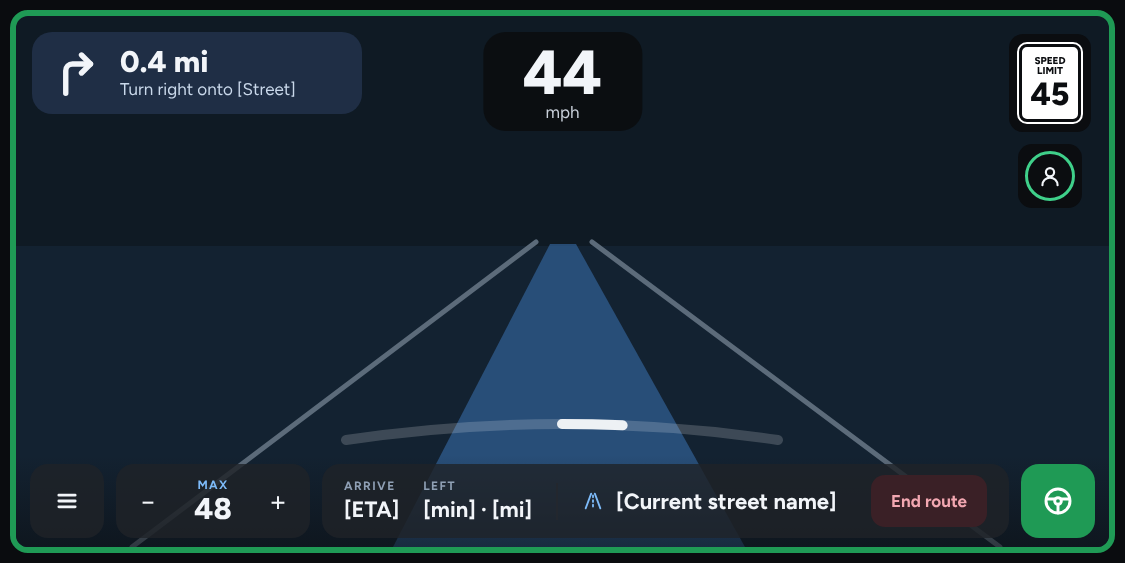
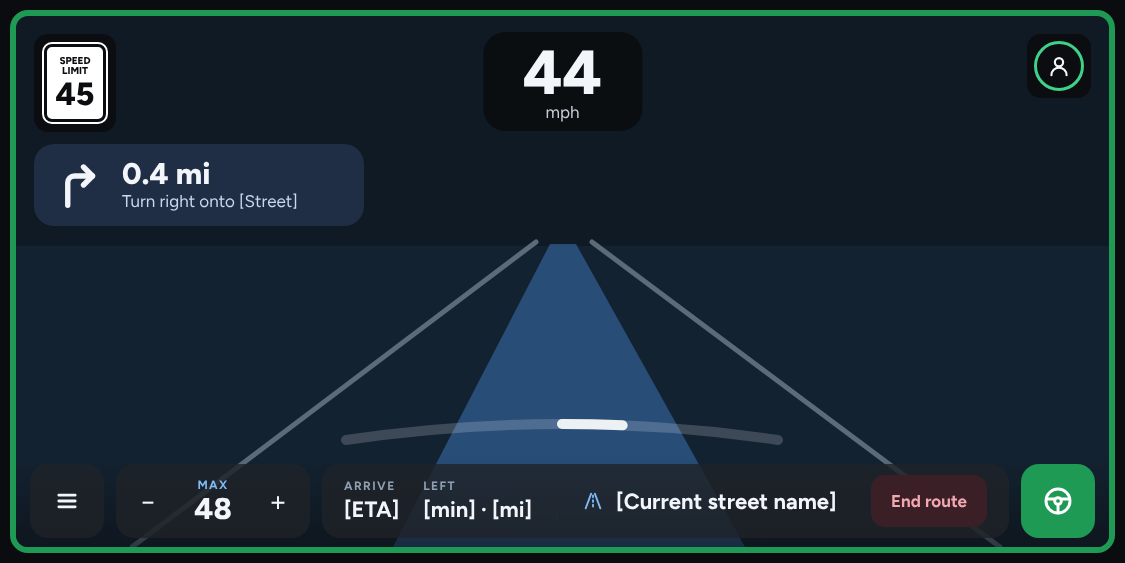
Essentials: speed limit sign stays top left, turn card below it
While navigating, the sign no longer moves to the top right: the turn card
pops up below it instead, and the driver monitor tile keeps the top right
corner. Navigation mock updated.

Claude-Session: https://claude.ai/code/session_01R4pPc2hcx88Dbjjec1p8WC

Changed region(s): [[0.0311, 0.0302, 0.3422, 0.4227], [0.9022, 0.0604, 0.9644, 0.2416], [0.9022, 0.2718, 0.9644, 0.3623]]

diff --git a/selfdrive/ui/tandem/design/onroadnav.html b/selfdrive/ui/tandem/design/onroadnav.html
@@ -24,7 +24,7 @@ a{color:#7DBBF9}a:hover{color:#A9D3FB}
       <path d="M330 424 Q546 392 762 424" stroke="#FFFFFF" stroke-opacity="0.18" stroke-width="10" fill="none" stroke-linecap="round"></path>
       <path d="M330 424 Q546 392 762 424" pathLength="100" stroke="#FFFFFF" stroke-opacity="0.9" stroke-width="10" fill="none" stroke-linecap="round" stroke-dasharray="14 200" stroke-dashoffset="-50"></path>
     </svg>
-    <div style="position: absolute; left: 16px; top: 16px; width: 330px; background: #1F2E45; border-radius: 20px; padding: 14px 18px; display: flex; align-items: center; gap: 16px; box-sizing: border-box;">
+    <div style="position: absolute; left: 18px; top: 128px; width: 330px; background: #1F2E45; border-radius: 20px; padding: 14px 18px; display: flex; align-items: center; gap: 16px; box-sizing: border-box;">
       <svg width="54" height="54" viewBox="0 0 24 24" fill="none" stroke="#F2F5F9" stroke-width="2.4" stroke-linecap="round" stroke-linejoin="round" aria-hidden="true"><path d="M7 21V11a3 3 0 0 1 3-3h8"></path><path d="M14 4l4 4-4 4"></path></svg>
       <div style="display: flex; flex-direction: column; gap: 2px; min-width: 0;">
         <span style="font-size: 30px; font-weight: 800; line-height: 1;">0.4 mi</span>
@@ -35,14 +35,14 @@ a{color:#7DBBF9}a:hover{color:#A9D3FB}
       <span style="font-size: 62px; font-weight: 800;">44</span>
       <span style="font-size: 17px; color: #C9D0DA;">mph</span>
     </div>
-    <div style="position: absolute; right: 18px; top: 18px; width: 82px; height: 98px; border-radius: 14px; background: #0B0D10; display: flex; align-items: center; justify-content: center;">
+    <div style="position: absolute; left: 18px; top: 18px; width: 82px; height: 98px; border-radius: 14px; background: #0B0D10; display: flex; align-items: center; justify-content: center;">
       <div style="width: 62px; height: 78px; box-sizing: border-box; border-radius: 8px; background: #FFFFFF; border: 3px solid #0B0D10; outline: 2px solid #FFFFFF; display: flex; flex-direction: column; align-items: center; justify-content: center; color: #0B0D10; line-height: 1;">
         <span style="font-size: 10px; font-weight: 800;">SPEED</span>
         <span style="font-size: 10px; font-weight: 800;">LIMIT</span>
         <span style="font-size: 32px; font-weight: 800; margin-top: 2px;">45</span>
       </div>
     </div>
-    <div aria-label="Driver monitoring: attentive" style="position: absolute; right: 27px; top: 128px; width: 64px; height: 64px; border-radius: 14px; background: #0B0D10; display: flex; align-items: center; justify-content: center;">
+    <div aria-label="Driver monitoring: attentive" style="position: absolute; right: 18px; top: 18px; width: 64px; height: 64px; border-radius: 14px; background: #0B0D10; display: flex; align-items: center; justify-content: center;">
       <div style="width: 50px; height: 50px; box-sizing: border-box; border-radius: 50%; border: 3px solid #3FD08A; display: flex; align-items: center; justify-content: center;">
         <svg width="26" height="26" viewBox="0 0 24 24" fill="none" stroke="#F2F5F9" stroke-width="2" stroke-linecap="round" stroke-linejoin="round" aria-hidden="true"><circle cx="12" cy="8.5" r="3.8"></circle><path d="M5 20.5a7 7 0 0 1 14 0"></path></svg>
       </div>

diff --git a/selfdrive/ui/tandem/design/confirmlimit.html b/selfdrive/ui/tandem/design/confirmlimit.html
@@ -47,7 +47,7 @@ a{color:#7DBBF9}a:hover{color:#A9D3FB}
       </div>
       <div style="height: 4px; border-radius: 2px; background: #2A2F36;"><div style="width: 60%; height: 4px; border-radius: 2px; background: #5AAAF8;"></div></div>
     </div>
-    <div aria-label="Driver monitoring: attentive" style="position: absolute; right: 27px; top: 18px; width: 64px; height: 64px; border-radius: 14px; background: #0B0D10; display: flex; align-items: center; justify-content: center;">
+    <div aria-label="Driver monitoring: attentive" style="position: absolute; right: 18px; top: 18px; width: 64px; height: 64px; border-radius: 14px; background: #0B0D10; display: flex; align-items: center; justify-content: center;">
       <div style="width: 50px; height: 50px; box-sizing: border-box; border-radius: 50%; border: 3px solid #3FD08A; display: flex; align-items: center; justify-content: center;">
         <svg width="26" height="26" viewBox="0 0 24 24" fill="none" stroke="#F2F5F9" stroke-width="2" stroke-linecap="round" stroke-linejoin="round" aria-hidden="true"><circle cx="12" cy="8.5" r="3.8"></circle><path d="M5 20.5a7 7 0 0 1 14 0"></path></svg>
       </div>

diff --git a/selfdrive/ui/tandem/design/onroad.html b/selfdrive/ui/tandem/design/onroad.html
@@ -32,7 +32,7 @@ a{color:#7DBBF9}a:hover{color:#A9D3FB}
         <span style="font-size: 32px; font-weight: 800; margin-top: 2px;">60</span>
       </div>
     </div>
-    <div aria-label="Driver monitoring: attentive" style="position: absolute; right: 27px; top: 18px; width: 64px; height: 64px; border-radius: 14px; background: #0B0D10; display: flex; align-items: center; justify-content: center;">
+    <div aria-label="Driver monitoring: attentive" style="position: absolute; right: 18px; top: 18px; width: 64px; height: 64px; border-radius: 14px; background: #0B0D10; display: flex; align-items: center; justify-content: center;">
       <div style="width: 50px; height: 50px; box-sizing: border-box; border-radius: 50%; border: 3px solid #3FD08A; display: flex; align-items: center; justify-content: center;">
         <svg width="26" height="26" viewBox="0 0 24 24" fill="none" stroke="#F2F5F9" stroke-width="2" stroke-linecap="round" stroke-linejoin="round" aria-hidden="true"><circle cx="12" cy="8.5" r="3.8"></circle><path d="M5 20.5a7 7 0 0 1 14 0"></path></svg>
       </div>

diff --git a/selfdrive/ui/tandem/onroad/view.py b/selfdrive/ui/tandem/onroad/view.py
@@ -14,6 +14,7 @@ Everything else, from the camera and path to alerts, is upstream's.
 from __future__ import annotations
 
 import datetime
+from collections.abc import Callable
 import time
 
 import pyray as rl
@@ -29,7 +30,7 @@ from openpilot.selfdrive.ui.tandem import tokens as T
 from openpilot.selfdrive.ui.tandem.onroad.layers import (AT_LIMIT, BAR_ZONE, LIMIT_BORDER_COLOR, LIMIT_LANE_COLOR, ArcState, BarState,
                                                          Headroom, HeadroomArc, HelpSteer, LimitCard, LimitOffer, OnroadBar, StatusChip,
                                                          dm_tile, draw_driver_monitor, draw_speed, draw_speed_limit,
-                                                         draw_turn_card, sign_tile)
+                                                         draw_turn_card, sign_tile, TURN_BELOW_SIGN, TURN_CARD_TOP)
 from openpilot.selfdrive.ui.tandem.onroad.status import ChipPicker, snapshot
 from openpilot.selfdrive.ui.tandem.onroad.limits import LimitOfferState
 
@@ -39,10 +40,12 @@ V_CRUISE_UNSET = 255
 
 
 class EssentialsTurnCard(NavigationCardRenderer):
-  """StarPilot's turn card, keeping its route data, drawn as the mock's card top left. Taps do nothing: End route is in the bar."""
+  """StarPilot's turn card, keeping its route data, drawn as the mock's card top left, below the speed limit sign when
+  there is one. Taps do nothing: End route is in the bar."""
 
-  def __init__(self):
+  def __init__(self, below_sign: Callable[[], bool]):
     super().__init__()
+    self._below_sign = below_sign
     self.box: rl.Rectangle | None = None   # where it was drawn this frame, if it was
 
   def _render(self, rect: rl.Rectangle) -> None:
@@ -50,7 +53,8 @@ class EssentialsTurnCard(NavigationCardRenderer):
     if not self._valid:
       return
     text = " ".join(t for t in (self._primary_text, self._secondary_text) if t)
-    self.box = draw_turn_card(rect, self._distance, text, self._maneuver_type, self._modifier)
+    self.box = draw_turn_card(rect, self._distance, text, self._maneuver_type, self._modifier,
+                              TURN_BELOW_SIGN if self._below_sign() else TURN_CARD_TOP)
 
 
 class _NoFavorites:
@@ -108,14 +112,13 @@ class EssentialsOnroadView(StarPilotOnroadView):
                             lambda: (self._turn_card.box.y + self._turn_card.box.height - self._content_rect.y + T.px(12))
                             if self._turn_card.box is not None else T.px(16))
     # StarPilot's HUD keeps deciding when the speed and turn card show; they're drawn in the Essentials style.
-    self._turn_card = EssentialsTurnCard()
+    self._turn_card = EssentialsTurnCard(lambda: self._posted_limit() is not None)
     self._hud_renderer._navigation_card = self._turn_card
     self._hud_renderer._draw_current_speed = self._draw_current_speed
     self._favorite_radial_menu = _NoFavorites()
     self._pip_sidecam.set_visible(False)   # the side-camera bubble: a Galaxy developer feature, and it would cover the bar
     self._stopped_timer_widget = _NoStoppedTimer()
     self._layers_visible = False
-    self._speed_limit_shown = False
     self._nav_sm = None
 
   # Upstream pieces replaced here
@@ -132,17 +135,19 @@ class EssentialsOnroadView(StarPilotOnroadView):
 
   def _render_speed_card(self):
     """The posted limit StarPilot's speed card would show, as the mock's sign; hidden while the new-limit card asks."""
-    widget = self._unified_speed_widget
-    self._speed_limit_shown = False
     if self._full_alert_showing():
-      widget.collapse_sources()
+      self._unified_speed_widget.collapse_sources()
       return
-    widget._refresh_snapshot()
+    limit = self._posted_limit()
+    if limit is not None:
+      draw_speed_limit(sign_tile(self._content_rect), limit, ui_state.ui_params.get_bool("UseVienna"))
+
+  def _posted_limit(self) -> str | None:
+    """The limit for the sign, or None when it's hidden: no limit known, or the new-limit card is asking."""
+    widget = self._unified_speed_widget
+    widget._refresh_snapshot()   # cached per frame
     limit = widget._presentation.posted_speed_text
-    if limit in ("", "–") or self._offer() is not None:
-      return
-    self._speed_limit_shown = True
-    draw_speed_limit(sign_tile(self._content_rect, self._turn_card.box is not None), limit, ui_state.ui_params.get_bool("UseVienna"))
+    return None if limit in ("", "–") or self._offer() is not None else limit
 
   def _render_driver_monitor(self) -> None:
     """Upstream's driver state (its fades already hide it for alerts, stale data and the hide toggle), as our tile."""
@@ -151,8 +156,7 @@ class EssentialsOnroadView(StarPilotOnroadView):
     attentive = dm._color_fade_filter.update(0.0 if dm._awareness_unfull else 1.0)
     if not (ui_state.started and self._draw_hud_controls):
       return
-    below_sign = self._turn_card.box is not None and self._speed_limit_shown
-    draw_driver_monitor(dm_tile(self._content_rect, below_sign), dm._fade_filter.x, attentive, dm.is_active)
+    draw_driver_monitor(dm_tile(self._content_rect), dm._fade_filter.x, attentive, dm.is_active)
 
   def _render_road_name(self):
     pass

diff --git a/selfdrive/ui/tandem/onroad/layers.py b/selfdrive/ui/tandem/onroad/layers.py
@@ -376,11 +376,9 @@ def draw_speed(rect: rl.Rectangle, speed: float, unit: str, offset_y: float = 0.
       draw_signal(rl.Rectangle(x, pill.y, SIGNAL_SIZE[0], pill.height), side, now)
 
 
-def sign_tile(rect: rl.Rectangle, right: bool) -> rl.Rectangle:
-  """Where the speed limit sign sits: top left, or top right while the turn card has the top left."""
-  w, h = SIGN_TILE
-  x = rect.x + rect.width - SIGN_MARGIN - w if right else rect.x + SIGN_MARGIN
-  return rl.Rectangle(x, rect.y + SIGN_MARGIN, w, h)
+def sign_tile(rect: rl.Rectangle) -> rl.Rectangle:
+  """Where the speed limit sign sits: top left."""
+  return rl.Rectangle(rect.x + SIGN_MARGIN, rect.y + SIGN_MARGIN, *SIGN_TILE)
 
 
 def draw_speed_limit(tile: rl.Rectangle, limit: str, vienna: bool) -> None:
@@ -404,14 +402,11 @@ def draw_speed_limit(tile: rl.Rectangle, limit: str, vienna: bool) -> None:
 
 DM_TILE = T.px(64)
 DM_RING = (T.px(50), T.px(3))     # diameter and width
-DM_GAP = T.px(12)                 # below the speed limit sign when they share the top right
 
 
-def dm_tile(rect: rl.Rectangle, below_sign: bool) -> rl.Rectangle:
-  """The driver monitor's place: top right, centered on the sign's column, under the sign when the sign is there too."""
-  x = rect.x + rect.width - SIGN_MARGIN - (SIGN_TILE[0] + DM_TILE) / 2
-  y = rect.y + SIGN_MARGIN + (SIGN_TILE[1] + DM_GAP if below_sign else 0)
-  return rl.Rectangle(x, y, DM_TILE, DM_TILE)
+def dm_tile(rect: rl.Rectangle) -> rl.Rectangle:
+  """The driver monitor's place: the top right corner, inset like the sign is on the left."""
+  return rl.Rectangle(rect.x + rect.width - SIGN_MARGIN - DM_TILE, rect.y + SIGN_MARGIN, DM_TILE, DM_TILE)
 
 
 def draw_driver_monitor(tile: rl.Rectangle, opacity: float, attentive: float, watching: bool) -> None:
@@ -450,12 +445,15 @@ def turn_icon(maneuver: str, modifier: str) -> str:
 
 
 TURN_CARD_WIDTH = T.px(330)
+TURN_CARD_TOP = T.px(16)
+TURN_BELOW_SIGN = SIGN_MARGIN + SIGN_TILE[1] + T.px(12)   # the card's top while the sign holds the corner
 
 
-def draw_turn_card(rect: rl.Rectangle, distance: str, text: str, maneuver: str, modifier: str) -> rl.Rectangle:
-  """The next turn, top left: its arrow, the distance and the instruction. Returns the card's box."""
+def draw_turn_card(rect: rl.Rectangle, distance: str, text: str, maneuver: str, modifier: str,
+                   top: float = TURN_CARD_TOP) -> rl.Rectangle:
+  """The next turn, top left (below the sign when there is one): its arrow, the distance and the instruction. Returns the card's box."""
   lines = [draw.line_height(T.font_px(30)), draw.line_height(T.font_px(17))]
-  box = rl.Rectangle(rect.x + T.px(16), rect.y + T.px(16), TURN_CARD_WIDTH, max(T.px(54), sum(lines)) + T.px(28))
+  box = rl.Rectangle(rect.x + SIGN_MARGIN, rect.y + top, TURN_CARD_WIDTH, max(T.px(54), sum(lines)) + T.px(28))
   draw.fill(box, T.ACCENT_SURFACE, T.px(20))
   body = inset(box, x=T.px(18), y=T.px(14))
   icon, words = row(body, [T.px(54), FILL], T.px(16))

diff --git a/selfdrive/ui/tandem/README.md b/selfdrive/ui/tandem/README.md
@@ -127,10 +127,10 @@ These are reached from a row or button, never as a tab:
   - **Steering headroom arc:** replaces the torque bar and uses its estimate. It has three stages (under 60%, 60–85%, over 85% held for 0.5 s) and a faint preview of what the path needs 2.5 s ahead.
     - At limit, the lane lines turn orange, the border turns amber, and Help steer plays one soft warning chime through soundd. It uses the warning volume and steering-limit mute-speed settings. The warning clears below 80%, or when steering becomes inactive; existing alerts take priority. The small release margin prevents repeated chimes around 85%.
   - **New-limit card:** asks before matching a higher limit. Match sends StarPilot's `SpeedLimitAccepted`. Ignore suppresses consecutive offers for that same limit, including after an offer expires or its source briefly disappears. An intervening higher or lower posted limit, or a new drive, allows it again.
-  - **Speed, sign and turn card:** StarPilot still decides when each shows (its HUD's speed with the hide-speed rule, its speed card's posted limit, its turn card's route data); they're drawn as in the mocks. The sign sits top left, moves top right while navigating and hides while the new-limit card asks. The compass above the speed isn't drawn.
+  - **Speed, sign and turn card:** StarPilot still decides when each shows (its HUD's speed with the hide-speed rule, its speed card's posted limit, its turn card's route data); they're drawn as in the mocks. The sign stays top left, with the turn card popping up below it while navigating; the sign hides while the new-limit card asks. The compass above the speed isn't drawn.
   - **Turn signal:** two green chevrons in the speed pill on the signalling side, the brighter one stepping outward. It replaces StarPilot's signal animations, so Display has no animation picker.
   - **Removed:** the driving personality button, the experimental-mode wheel, the favorites menu (the lower-left gesture), the picture-in-picture side camera (a Galaxy developer feature), the stopped timer, and the paused and weather badges, which the chips replace.
-  - **Driver monitor** (top right, under the speed limit sign while navigating): upstream's driver state drawn as a dark tile with the driver icon, ringed green while attentive and amber as attention drops, dimmed when the camera isn't monitoring, hidden during alerts as upstream does.
+  - **Driver monitor** (top right corner): upstream's driver state drawn as a dark tile with the driver icon, ringed green while attentive and amber as attention drops, dimmed when the camera isn't monitoring, hidden during alerts as upstream does.
 - **Home** (`home.py`): upstream's HomeLayout with new home content: readiness and the current setup, Where to? (StarPilot's destination search), and update status. The home cards use the full content height without the legacy header or its tap targets. Offroad alerts and update details retain upstream's header and navigation.
 - **Sidebar** (`sidebar.py`): subclasses upstream's Sidebar, which still tracks device state and owns the callbacks. It has a Settings button and a status card with Network, comma connect, Temperature, Vehicle and Maps, each with a colored dot. Onroad it adds Save a clip (upstream's flag button), and it shows a recording indicator while cabin audio is recorded.
 - **First-run setup** (`setup.py`): three questions, or Use defaults. Either way it applies the Essentials defaults first. Home shows it once, as soon as onboarding has closed; a marker file beside the params folder records that it's done, so no new param key is needed.
